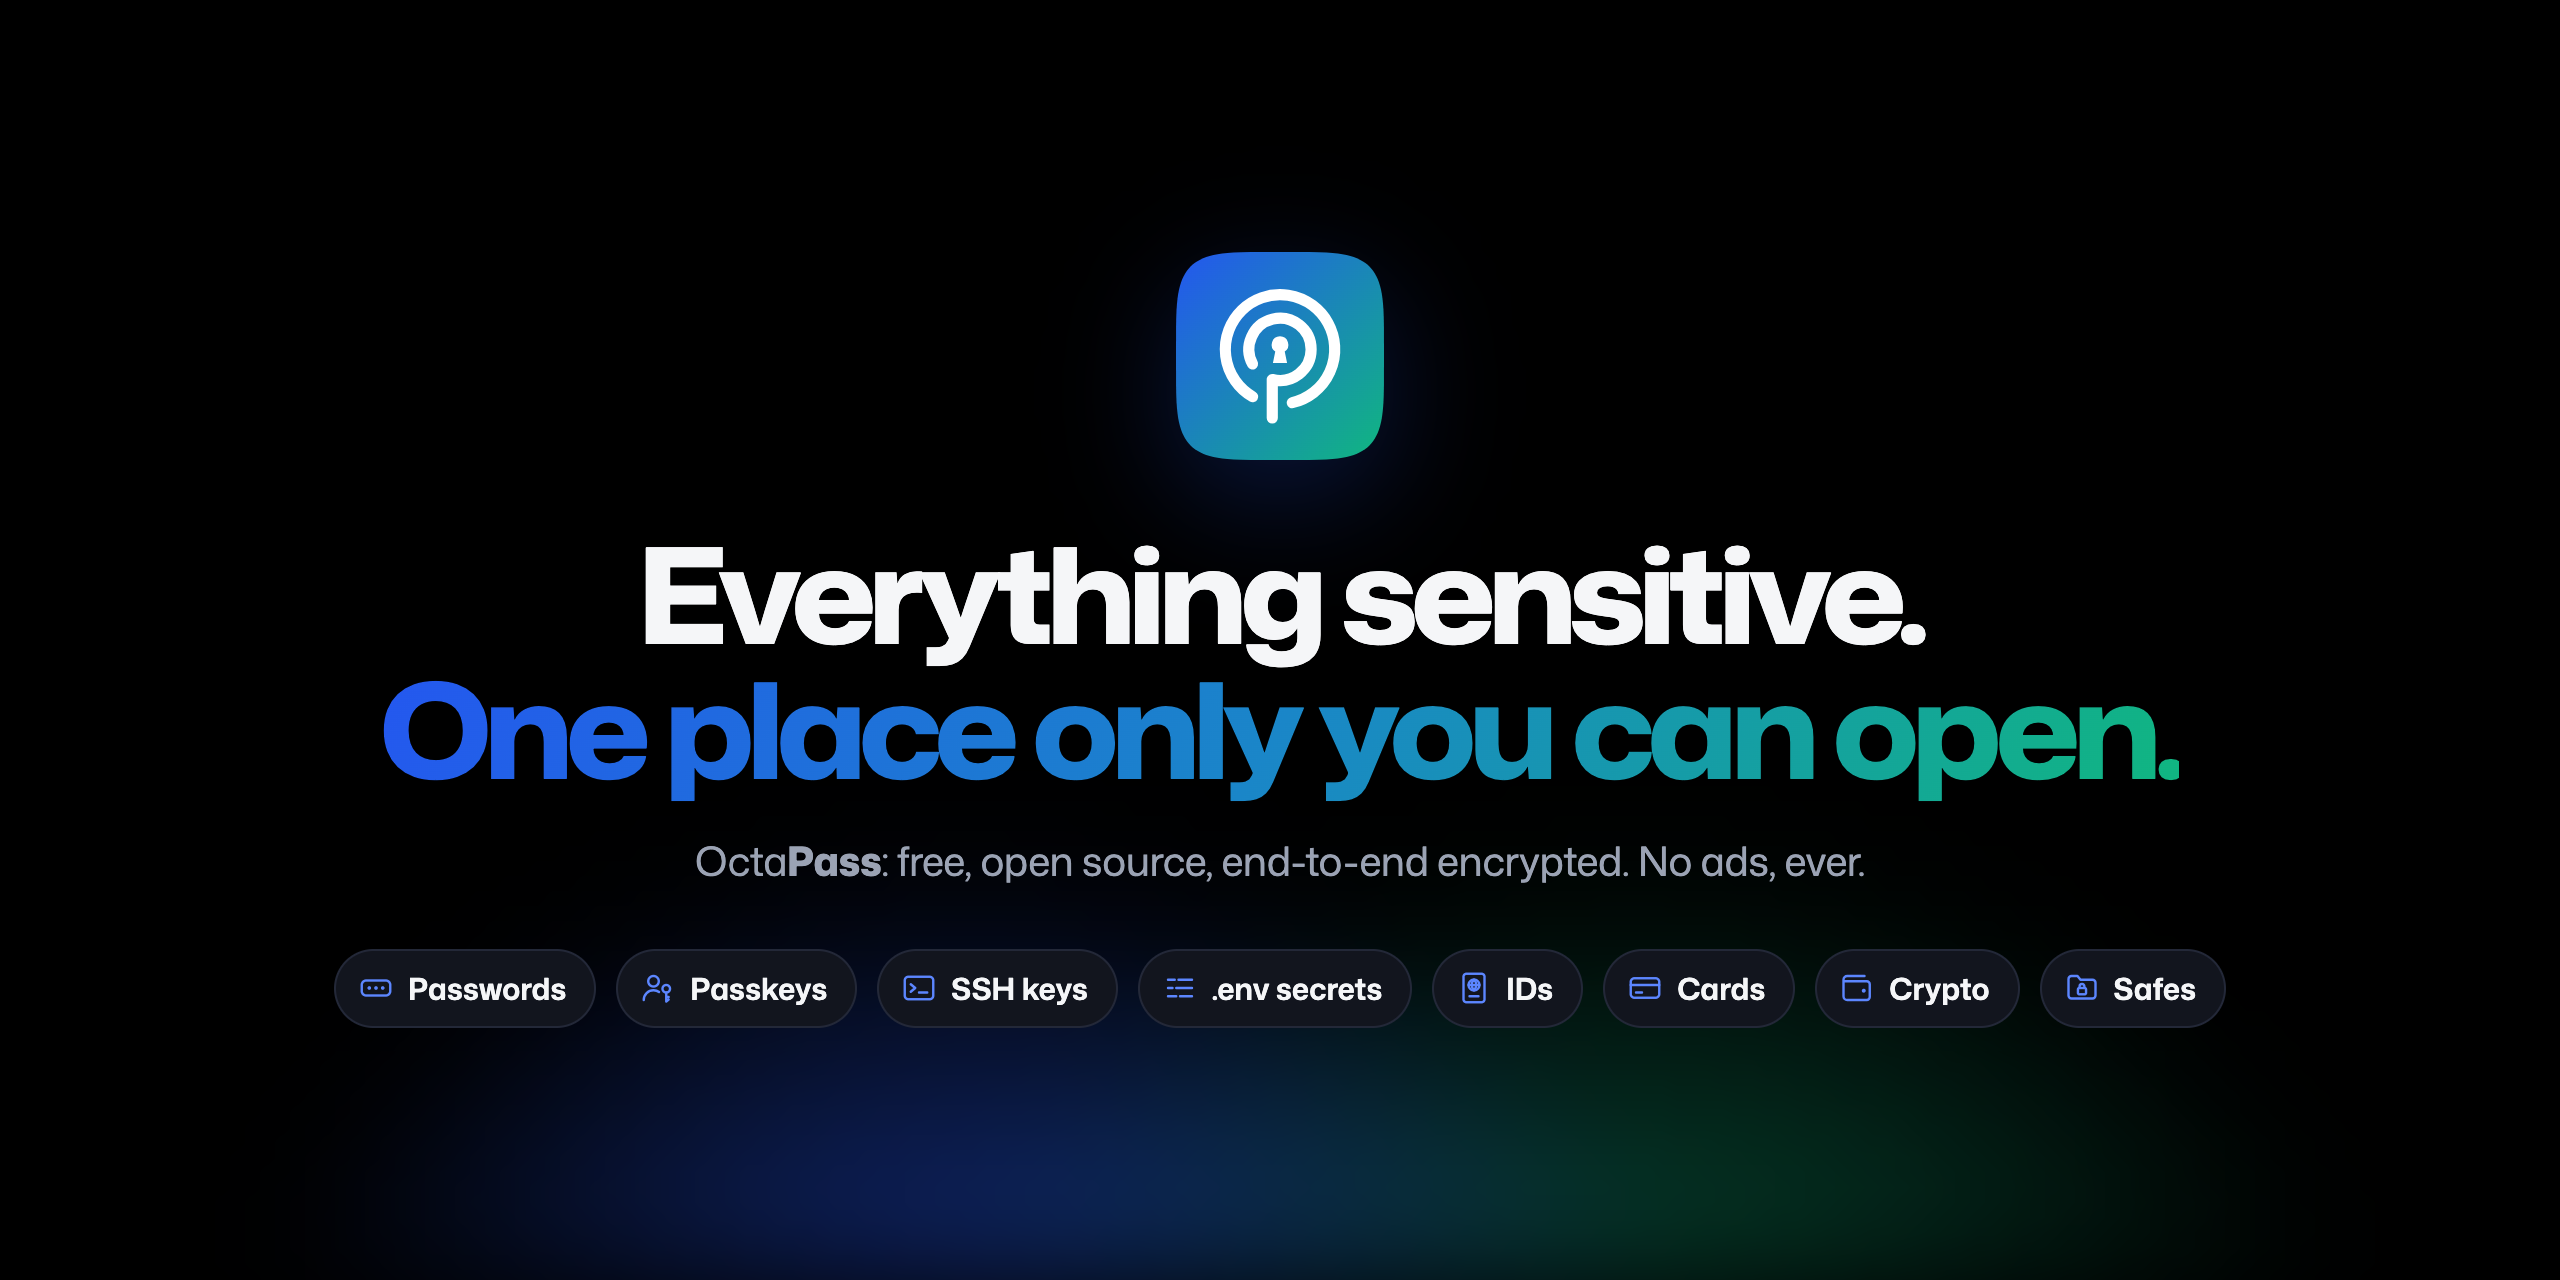
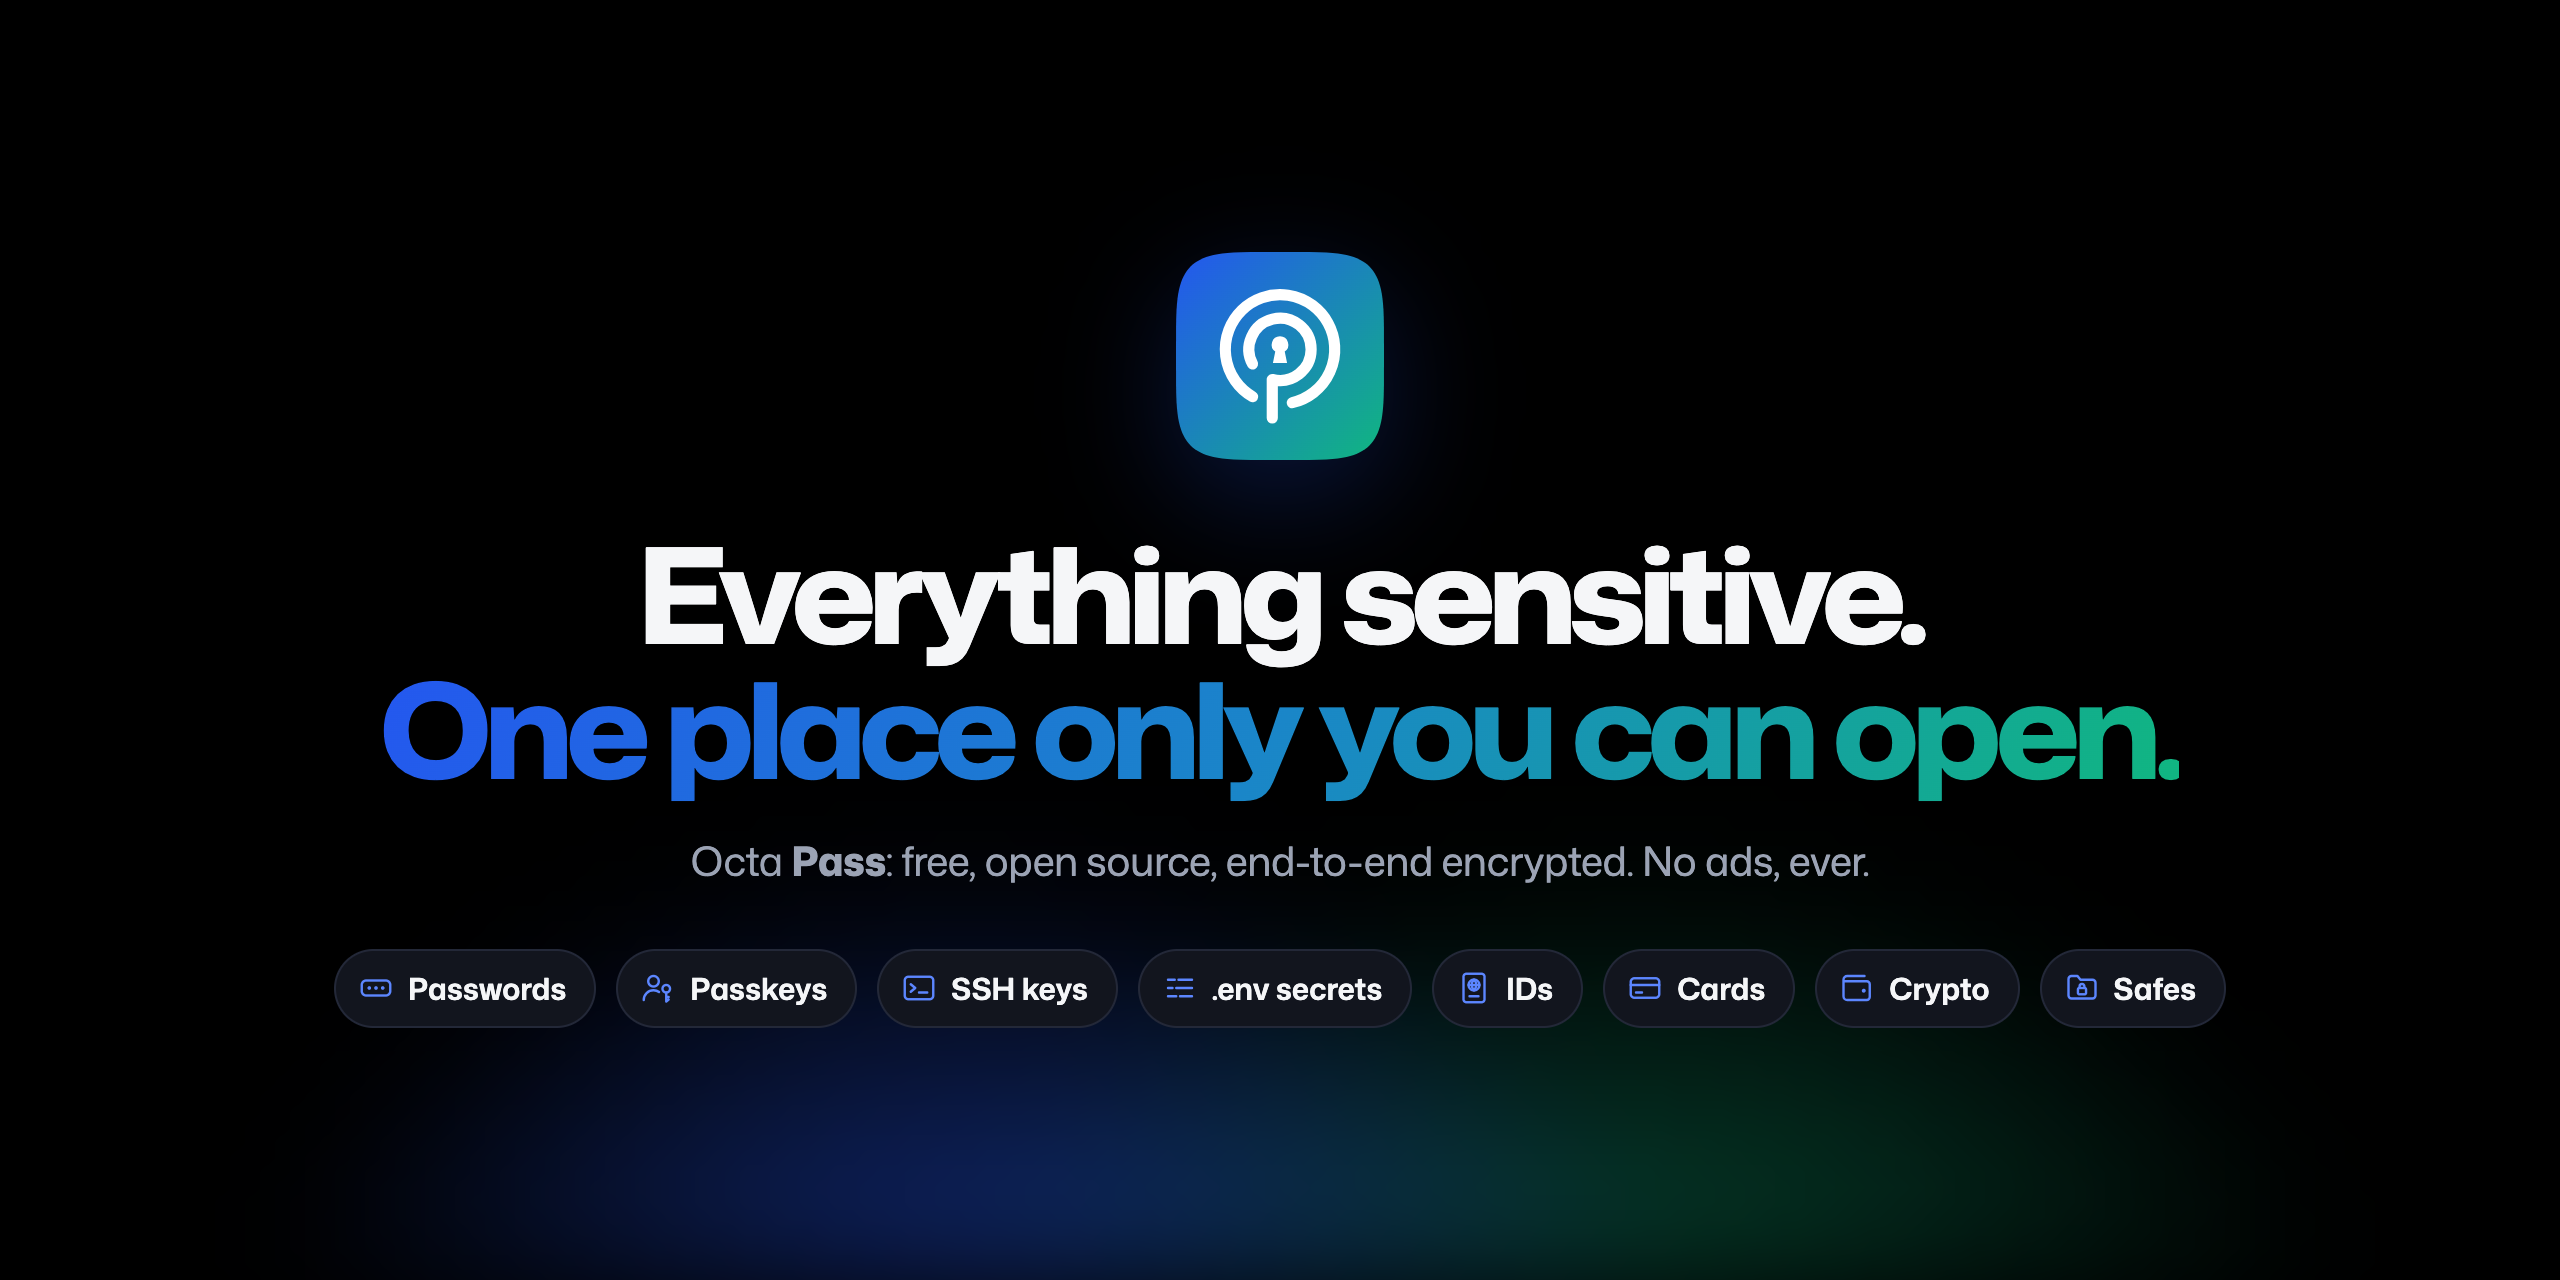
The name reads Octa Pass, two words: the wordmark gets its space everywhere

Changed region(s): [[0.25, 0.6562, 0.75, 0.6875]]

diff --git a/apps/android/app/src/main/kotlin/app/octapass/android/ui/vault/Sidebar.kt b/apps/android/app/src/main/kotlin/app/octapass/android/ui/vault/Sidebar.kt
@@ -237,7 +237,7 @@ fun Sidebar(onNavigate: () -> Unit) {
         Row(Modifier.fillMaxWidth().padding(start = 24.dp, end = 12.dp, top = 16.dp, bottom = 8.dp), verticalAlignment = Alignment.CenterVertically) {
             Logo(28.dp)
             Spacer(Modifier.width(10.dp))
-            Text("Octa", style = MaterialTheme.typography.titleLarge, fontWeight = FontWeight.Light)
+            Text("Octa ", style = MaterialTheme.typography.titleLarge, fontWeight = FontWeight.Light)
             Text("Pass", style = MaterialTheme.typography.titleLarge, fontWeight = FontWeight.Bold, modifier = Modifier.weight(1f))
             IconButton(onClick = { model.vault.lock() }, modifier = Modifier.testTag("nav.lock")) {
                 Icon(Icons.Outlined.Lock, contentDescription = stringResource(R.string.nav_lockNow))

diff --git a/apps/web/src/screens/vault/Sidebar.tsx b/apps/web/src/screens/vault/Sidebar.tsx
@@ -128,7 +128,7 @@ export function Sidebar({ onLock, onClose, top, bottom }: { onLock: () => void; 
       <div className={styles.brand}>
         <Logo variant="tile" size={28} />
         <span className={styles.name}>
-          Octa<b>Pass</b>
+          Octa <b>Pass</b>
         </span>
         <IconButton icon="lock" label={t('nav.lockNow')} onClick={onLock} size="sm" className={styles.lock} />
         <IconButton icon="close" label={t('common.close')} onClick={onClose} size="sm" className={styles.close} />

diff --git a/apps/server/src/mail.rs b/apps/server/src/mail.rs
@@ -515,7 +515,7 @@ body{{margin:0;padding:0;-webkit-text-size-adjust:100%}}
 <table role="presentation" width="100%" cellpadding="0" cellspacing="0" style="max-width:560px">
 <tr><td style="padding:0 4px 20px"><table role="presentation" cellpadding="0" cellspacing="0"><tr>
 <td style="vertical-align:middle"><img src="cid:{logo_cid}" width="32" height="32" alt="" style="display:block;border:0;border-radius:8px"></td>
-<td class="ink" style="vertical-align:middle;padding-left:10px;font-family:-apple-system,BlinkMacSystemFont,'Segoe UI',Roboto,Helvetica,Arial,sans-serif;font-size:19px;letter-spacing:-0.3px;color:#0B1220"><span style="font-weight:400">Octa</span><span style="font-weight:800">Pass</span></td>
+<td class="ink" style="vertical-align:middle;padding-left:10px;font-family:-apple-system,BlinkMacSystemFont,'Segoe UI',Roboto,Helvetica,Arial,sans-serif;font-size:19px;letter-spacing:-0.3px;color:#0B1220"><span style="font-weight:400">Octa&nbsp;</span><span style="font-weight:800">Pass</span></td>
 </tr></table></td></tr>
 <tr><td class="card" style="background:#FFFFFF;border:1px solid #E3E5EC;border-top:4px solid #2456F0;border-radius:18px;padding:36px 40px;font-family:-apple-system,BlinkMacSystemFont,'Segoe UI',Roboto,Helvetica,Arial,sans-serif;color:#0B1220;font-size:16px;line-height:1.55">
 <table role="presentation" width="100%" cellpadding="0" cellspacing="0">

diff --git a/brand/source/generate_logo.py b/brand/source/generate_logo.py
@@ -94,8 +94,8 @@ def favicon():
     return tile(title=False)
 
 
-def wordmark(parts=(('Octa', 380), ('Pass', 740)), width=108, size=46):
-    """'OctaPass' as one word: Octa light, Pass bold (the weight change separates the words)."""
+def wordmark(parts=(('Octa ', 380), ('Pass', 740)), width=108, size=46):
+    """'Octa Pass': Octa light, a space, Pass bold."""
     commands, x, cap = [], 0.0, 0.0
     for text, weight in parts:
         font = instancer.instantiateVariableFont(TTFont(FONT), {'wght': weight, 'wdth': width})

diff --git a/brand/source/render_headers.py b/brand/source/render_headers.py
@@ -57,7 +57,7 @@ p{{position:relative;font-size:{round(title_size*0.31)}px;color:{t['mist']};marg
 </style></head><body><div class="glow"></div>
 <div class="icon">{logo(icon)}</div>
 <h1>Everything sensitive.<br><span>One place only you can open.</span></h1>
-<p><span class="word">Octa<b>Pass</b></span>: free, open source, end-to-end encrypted. No ads, ever.</p>
+<p><span class="word">Octa <b>Pass</b></span>: free, open source, end-to-end encrypted. No ads, ever.</p>
 <div class="chips">{chips}</div>
 </body></html>'''
 

diff --git a/brand/README.md b/brand/README.md
@@ -10,7 +10,7 @@ The logo, colours, type and voice for Octa Pass. Everything here is MIT like the
 | `logo-mark-dark.svg` | Brighter gradient for dark backgrounds |
 | `logo-mark-mono.svg` | One colour (`currentColor`), for print, embossing and monochrome UI |
 | `logo-tile.svg` | App icon: white monogram on the gradient squircle. Also the favicon |
-| `logo-lockup.svg` / `logo-lockup-dark.svg` | Mark + "OctaPass" wordmark (outlined, so no font is needed) |
+| `logo-lockup.svg` / `logo-lockup-dark.svg` | Mark + "Octa Pass" wordmark (outlined, so no font is needed) |
 | `app-icon-512.png`, `apple-touch-icon.png` | App and home-screen icons |
 | `readme-header-light.png` / `readme-header-dark.png` | GitHub README banner (2560×1280) |
 | `readme-showcase.png` | Tall README image: "Not just a password manager", the 22 kinds of item, zero knowledge (2000×5544) |
@@ -23,7 +23,7 @@ The logo, colours, type and voice for Octa Pass. Everything here is MIT like the
 - Clear space around the mark is at least ¼ of its width. Minimum size: 20 px for the bare mark, 16 px for the tile.
 - Below 24 px, use the tile (`logo-tile.svg`). The bare monogram's lines get too thin.
 - Don't rotate the mark, change the gradient direction, outline it, or add shadows.
-- The wordmark is **OctaPass**, one word: "Octa" light (380), "Pass" bold (740). In running text write "Octa Pass"; in code and URLs, `octapass`.
+- The name is **Octa Pass**, two words, everywhere people read it. The wordmark sets "Octa" light (380) and "Pass" bold (740) with a space between; in code and URLs, `octapass`.
 
 ## Colour
 

diff --git a/changelog/2026-10-23-new-brand-and-website.md b/changelog/2026-10-23-new-brand-and-website.md
@@ -10,7 +10,7 @@ tags: [website, decision]
 - **Logo:** an **O** ring, open at the bottom, around a **P** whose stem passes out through the opening, with a keyhole in the P. *Open* and *Pass* in one mark. It comes in a gradient mark, a one-colour mark and an app-icon tile.
 - **Colours:** trust blue (`#2456F0`) and freedom green (`#10B77F`, the colour of open source), meeting in one signature gradient.
 - **Type:** Mona Sans for everything, with its width axis for headlines, and Monaspace Neon for passwords, codes and ciphertext. Both are self-hosted.
-- **Wordmark:** OctaPass, with "Open" light and "Pass" bold.
+- **Wordmark:** Octa Pass, with "Octa" light and "Pass" bold.
 
 See `brand/README.md` for the full guide.
 
